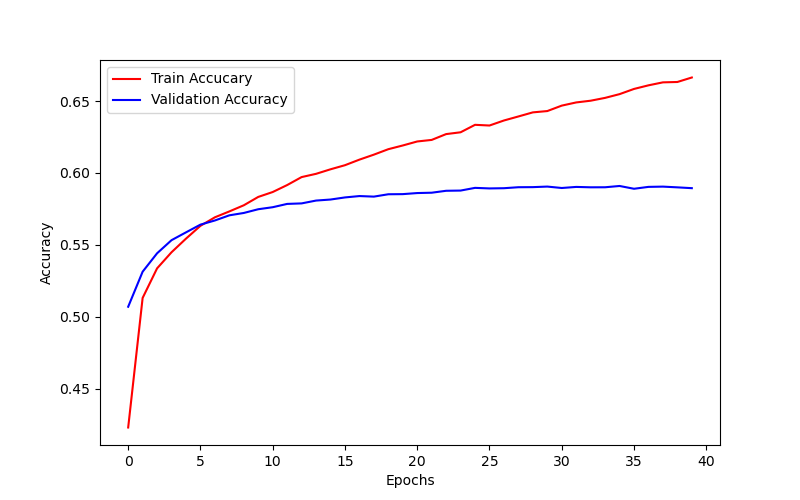
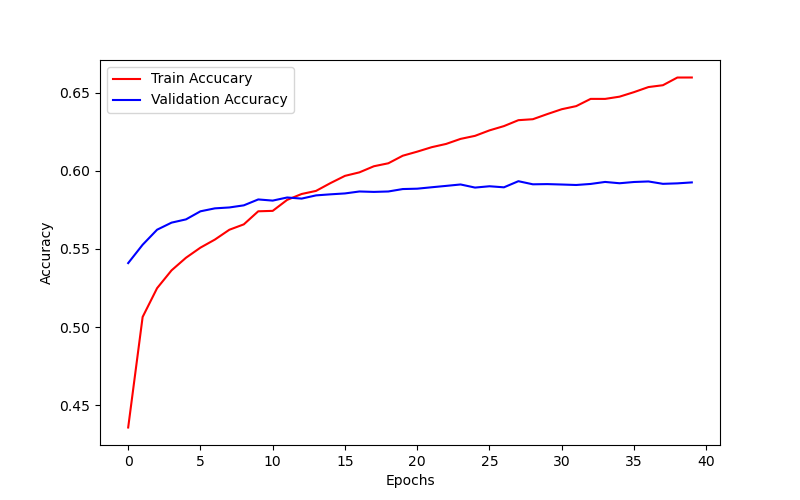
Data split adjusted to graph eu data

diff --git a/src/models/utils.py b/src/models/utils.py
@@ -8,8 +8,6 @@ import wandb
 def data_split(data, scale = True, to_numpy = False, random_split = False, stratify = True, dataset = "ogbn", y = None):
     
     if dataset == "ogbn":
-        split_idx = data.get_idx_split()
-
         data = data[0]
         
         if random_split: # according to the i.i.d. assumption
@@ -22,6 +20,8 @@ def data_split(data, scale = True, to_numpy = False, random_split = False, strat
 
         else: # Use the splits provided by OGB
 
+            split_idx = data.get_idx_split()
+        
             for key, idx in split_idx.items():
                 mask = torch.zeros(data.num_nodes, dtype=torch.bool)
                 mask[idx] = True
@@ -34,33 +34,43 @@ def data_split(data, scale = True, to_numpy = False, random_split = False, strat
             X_test = data.x[data["test_mask"]]
             y_test = data.y[data["test_mask"]]
 
-        if scale:
+    else:
+
+        # if random_split:
+
+        X_train = data.x[data["train_mask"]]    
+        y_train = data.y[data["train_mask"]]
+        X_valid = data.x[data["valid_mask"]]
+        y_valid = data.y[data["valid_mask"]]
+        X_test = data.x[data["test_mask"]]
+        y_test = data.y[data["test_mask"]]
+        
+
+            # if stratify:
+                # X_train, X_test, y_train, y_test = train_test_split(data[0], data[1], test_size=0.2, random_state=0, stratify = data[1])
+                # X_train, X_valid, y_train, y_valid = train_test_split(X_train, y_train, test_size=0.25, random_state=0, stratify = y_train) # 0.25 x 0.8 = 0.2
+            # else:
+                # X_train, X_test, y_train, y_test = train_test_split(data[0], data[1], test_size=0.2, random_state=0)
+                # X_train, X_valid, y_train, y_valid = train_test_split(X_train, y_train, test_size=0.25, random_state=0) # 0.25 x 0.8 = 0.2
+
+    if scale:
             x_mean, x_std = X_train.mean(), X_train.std()
             X_train = (X_train - x_mean)/x_std
             X_valid = (X_valid - x_mean)/x_std
             X_test = (X_test - x_mean)/x_std
 
-        if to_numpy:
-            X_train = X_train.numpy()
-            y_train = y_train.numpy().ravel()
-            X_valid = X_valid.numpy()
-            y_valid = y_valid.numpy().ravel()
-            X_test = X_test.numpy()
-            y_test = y_test.numpy().ravel()
-
-        else:
-            y_train = y_train.long().reshape(-1)
-            y_valid = y_valid.long().reshape(-1)
-            y_test = y_test.long().reshape(-1)
+    if to_numpy:
+        X_train = X_train.numpy()
+        y_train = y_train.numpy().ravel()
+        X_valid = X_valid.numpy()
+        y_valid = y_valid.numpy().ravel()
+        X_test = X_test.numpy()
+        y_test = y_test.numpy().ravel()
 
     else:
-        if random_split:
-            if stratify:
-                X_train, X_test, y_train, y_test = train_test_split(data[0], data[1], test_size=0.2, random_state=0, stratify = data[1])
-                X_train, X_valid, y_train, y_valid = train_test_split(X_train, y_train, test_size=0.25, random_state=0, stratify = y_train) # 0.25 x 0.8 = 0.2
-            else:
-                X_train, X_test, y_train, y_test = train_test_split(data[0], data[1], test_size=0.2, random_state=0)
-                X_train, X_valid, y_train, y_valid = train_test_split(X_train, y_train, test_size=0.25, random_state=0) # 0.25 x 0.8 = 0.2
+        y_train = y_train.long().reshape(-1)
+        y_valid = y_valid.long().reshape(-1)
+        y_test = y_test.long().reshape(-1)
 
     return X_train, y_train, X_valid, y_valid, X_test, y_test
 

diff --git a/src/data/make_dataset.py b/src/data/make_dataset.py
@@ -1,7 +1,7 @@
 # -*- coding: utf-8 -*-
 import os
 import pandas as pd
-import numpy as np
+import torch
 import torch_geometric.data  # type: ignore
 from ogb.nodeproppred import PygNodePropPredDataset
 
@@ -17,10 +17,11 @@ def load_data(dataset_name: str, root: str) -> torch_geometric.data.Data:
         dataset = PygNodePropPredDataset(name=dataset_name, root=root)
         return dataset
     else:
+        dataset = torch.load("/data/processed/EU_graph.pt")
         print(os.getcwd())
-        links = pd.read_csv(root + "/data/processed/eu_links_lang_gcc.csv", index_col = 0, parse_dates = [4, 10])
-        cases = pd.read_csv(root + "/data/processed/eu_cases_lang_gcc.csv", index_col = 0, parse_dates = [5, 6])
+        # links = pd.read_csv(root + "/data/processed/eu_links_lang_gcc.csv", index_col = 0, parse_dates = [4, 10])
+        # cases = pd.read_csv(root + "/data/processed/eu_cases_lang_gcc.csv", index_col = 0, parse_dates = [5, 6])
         # X = np.load(root + "/data/processed/paragraph_embeddings.npy")
         # y = np.load(root + "/data/processed/targets.npy")
 
-        return links, cases
+        return dataset

diff --git a/src/models/ml_classifiers/train_model.py b/src/models/ml_classifiers/train_model.py
@@ -55,7 +55,6 @@ logging.basicConfig(
 @hydra.main(config_path="../config", config_name="default_config.yaml")
 def Run_log_reg(config : DictConfig):
     
-    # print(f"configuration: \n {OmegaConf.to_yaml(config)}")
     hparams = config.log_reg.hyperparameters
     print(f"configuration: \n {OmegaConf.to_yaml(hparams)}")
     wandb.init(project="master-thesis", config = hparams, group = "log_reg")
@@ -68,6 +67,7 @@ def Run_log_reg(config : DictConfig):
 
     X_train, y_train, X_valid, y_valid, X_test, y_test = data_split(data,
                                                                     hparams["scale"],
+                                                                    to_numpy = True,
                                                                     random_split = hparams["random_split"],
                                                                     stratify = hparams["stratify"])
 

diff --git a/models/FFNN_model.py b/models/FFNN_model.py
@@ -12,7 +12,7 @@ class FFNNClassifier(nn.Module):
         self.num_features = num_features
         self.num_hidden1 = num_hidden1
         self.num_hidden2 = num_hidden2
-        self.num_hidden2 = num_hidden3
+        self.num_hidden3 = num_hidden3
         self.num_output = num_output
         self.dropout_p = dropout_p
         # input layer
